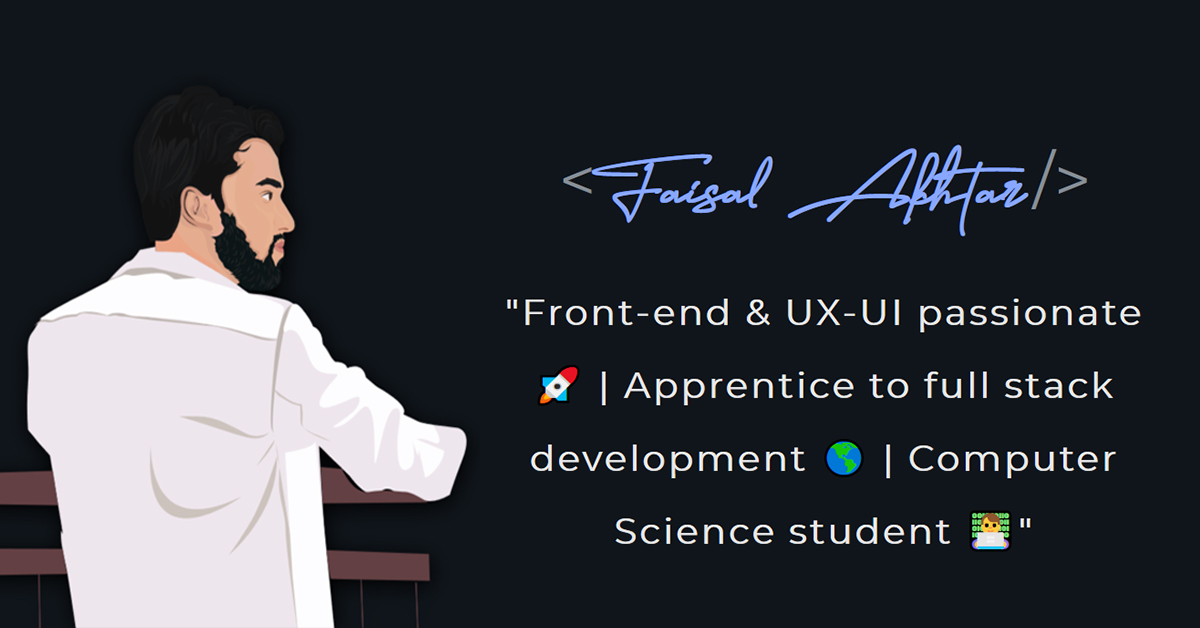
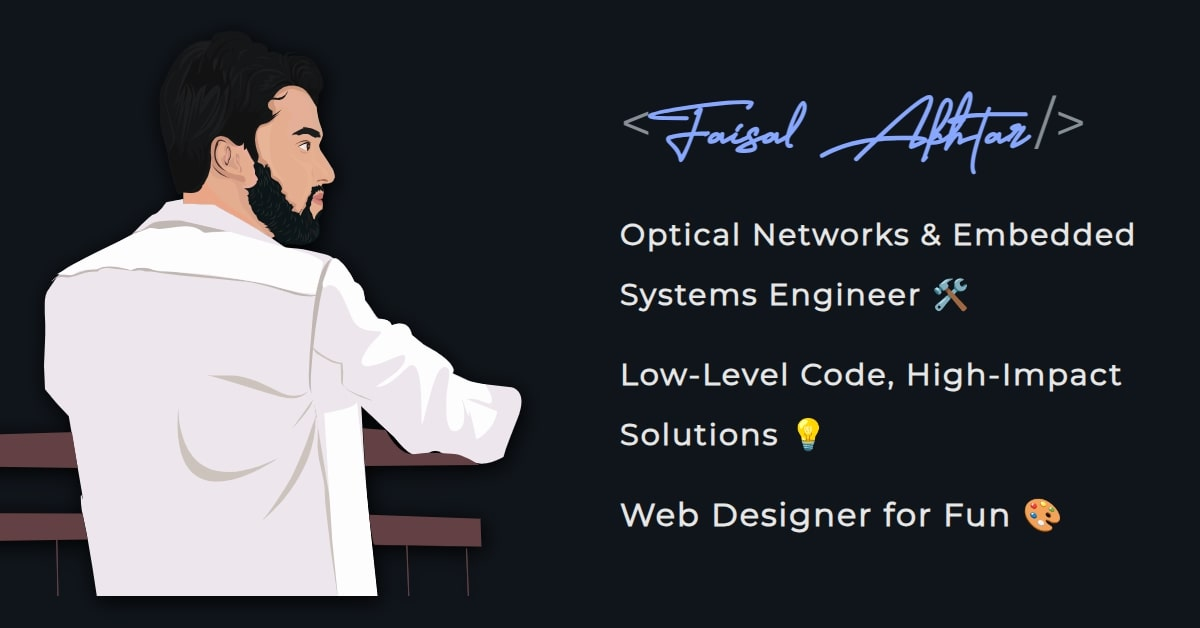
Updating meta-data

diff --git a/index.html b/index.html
@@ -13,14 +13,14 @@
 <meta name="theme-color" content="#222222"/>
 <meta content="width=device-width, initial-scale=1, maximum-scale=1.0, user-scalable=no" name="viewport">
 <meta name="author" content="Faisal Akhtar">
-<meta name="keywords" content="Faisal, Akhtar, Faisal Akhtar, Developer portfolio, developer, portfolio, designer, Sociovation, Turington, Programming, Python, Coder, developer, open source, programmer, NodeJS, HTML, HTML5, CSS, CSS3, JavaScript, JS, Bootstrap, Adobe Illustrator, Adobe, Illustrator, Photoshop, Jquery, j-query, Python, Java, CPP, C++, C, Angular, JSON, MS word, excel, powerpoint, Ramanujan College, Delhi University, Ramanujan, DU, Alan Turing, Coding, Technical, Tech, Techie">
+<meta name="keywords" content="Faisal, Akhtar, Faisal Akhtar, Embedded Engineer, Optical Systems, Networking, Software Developer, C++, C, Linux, VxWorks, OSRP, Control Plane, CIENA, MRV Research, Developer Portfolio, Programmer, System Design, Low-Level Programming, Debugging, Optimization, NodeJS, JavaScript, HTML, CSS, React.js, UI/UX, AWS, Data Structures, Algorithms, NoSQL, Database Design, Cloud Computing, Ramanujan College, Delhi University, DU, Computer Science, Full-Stack, Web Design, Open Source">
 <meta name="title" content="Faisal Akhtar — My web portfolio">
-<meta name="description" content="Hi, I'm Faisal Akhtar, a passionate Front End Developer with handson experience in full stack development. Here's my portfolio with some insights of my recent work. Enjoy">
+<meta name="description" content="Hi, I'm Faisal Akhtar, an Embedded & Optical Systems Engineer with expertise in C++, networking, system-level programming and I occasionally design websites for fun">
 <meta property="og:type" content="website">
 <meta property="og:url" content="https://faisalakhtar.github.io">
 <meta property="og:site_name" content="Faisal Akhtar — My web portfolio">
 <meta property="og:title" content="Faisal Akhtar — My web portfolio">
-<meta property="og:description" content="Hi, I'm Faisal Akhtar, a passionate Front End Developer with handson experience in full stack development. Here's my portfolio with some insights of my recent work. Enjoy">
+<meta property="og:description" content="Hi, I'm Faisal Akhtar, an Embedded & Optical Systems Engineer with expertise in C++, networking, system-level programming and I occasionally design websites for fun">
 <meta property="og:type" content="website">
 <meta property="og:image" itemprop="image" content="https://faisalakhtar.github.io/img/OG-image-large.jpg">
 <meta property="og:image:type" content="image/jpg">
@@ -34,7 +34,7 @@
 <meta name="twitter:url" content="https://faisalakhtar.github.io">
 <meta name="twitter:site_name" content="Faisal Akhtar — My web portfolio">
 <meta name="twitter:title" content="Faisal Akhtar — My web portfolio">
-<meta name="twitter:description" content="Hi, I'm Faisal Akhtar, a passionate Front End Developer with handson experience in full stack development. Here's my portfolio with some insights of my recent work. Enjoy">
+<meta name="twitter:description" content="Hi, I'm Faisal Akhtar, an Embedded & Optical Systems Engineer with expertise in C++, networking, system-level programming and I occasionally design websites for fun">
 <meta name="twitter:type" content="website">
 <meta name="twitter:image" itemprop="image" content="https://faisalakhtar.github.io/img/OG-image-large.jpg">
 <meta name="twitter:image:alt" content="Faisal smiling at you">
@@ -46,7 +46,7 @@
 <link rel="stylesheet" href="stylesheets/style.css">
 <link rel="stylesheet" href="stylesheets/style.min.css">
 <link rel="stylesheet" href="stylesheets/style.dark.css">
-<title>Faisal Akhtar &ndash; An Enthusiastic Front End Developer</title>
+<title>Faisal Akhtar &ndash; Embedded & Optical Systems Engineer | C++ Dev</title>
 </head>
 
 <body>
